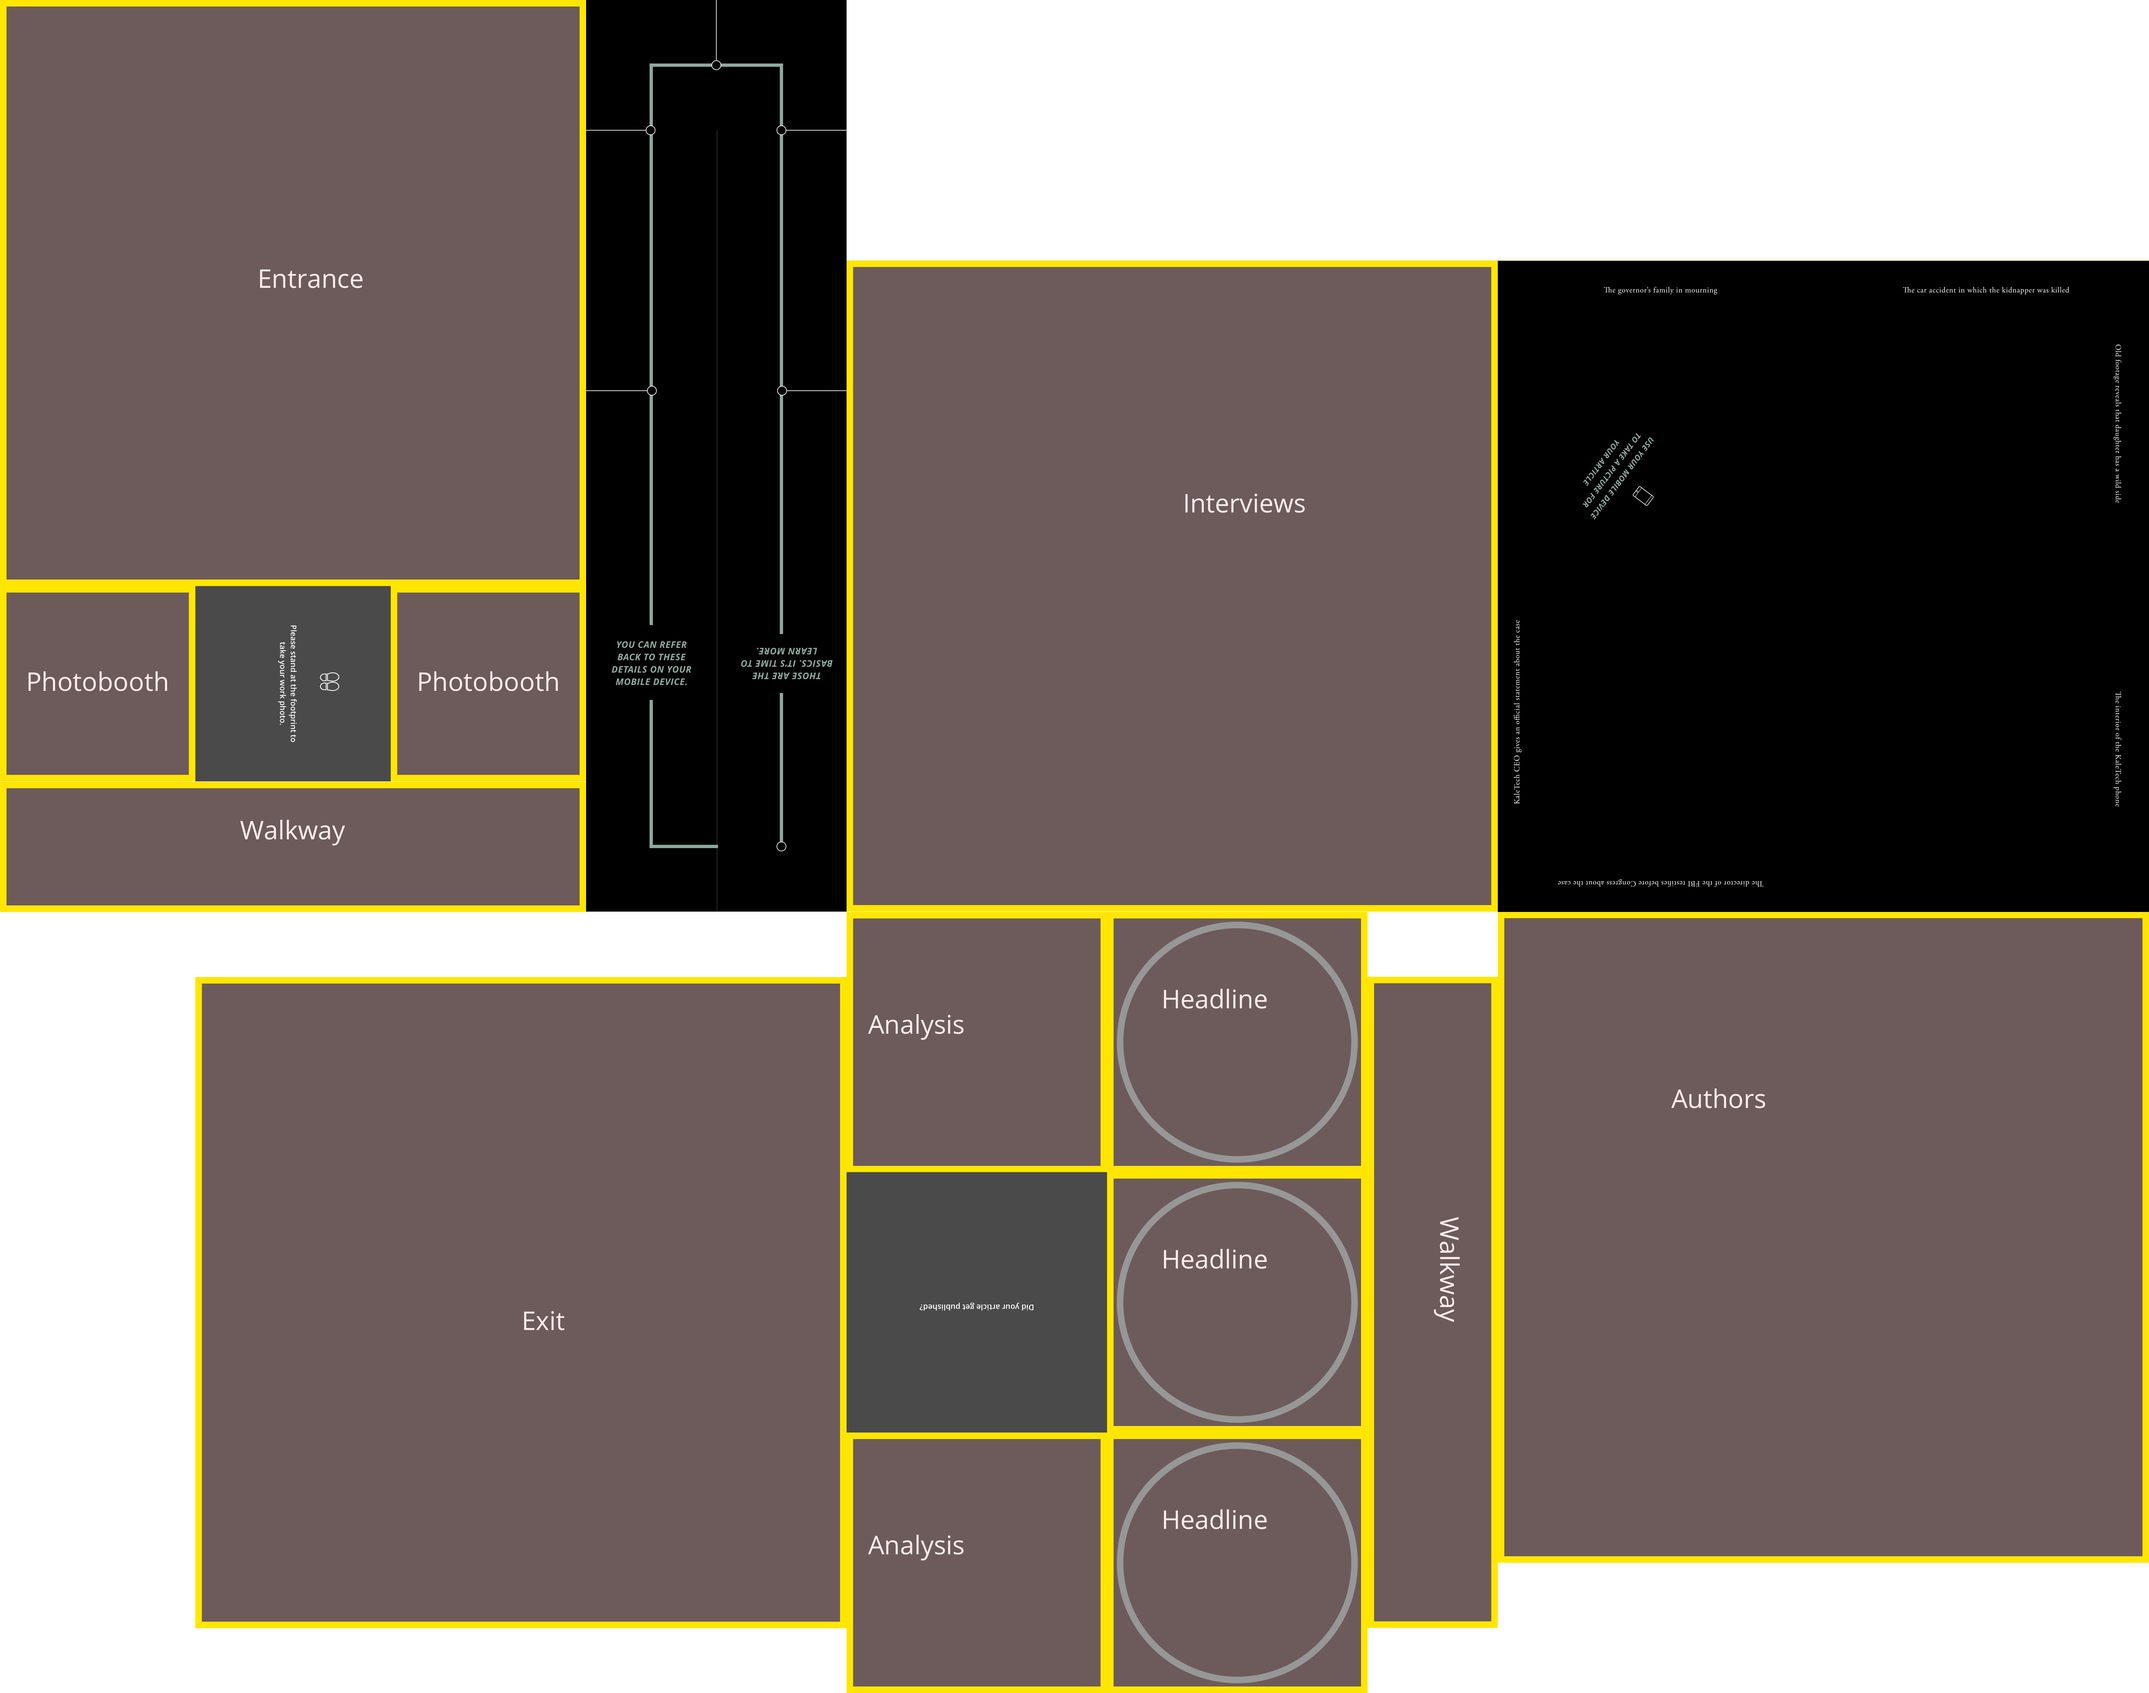
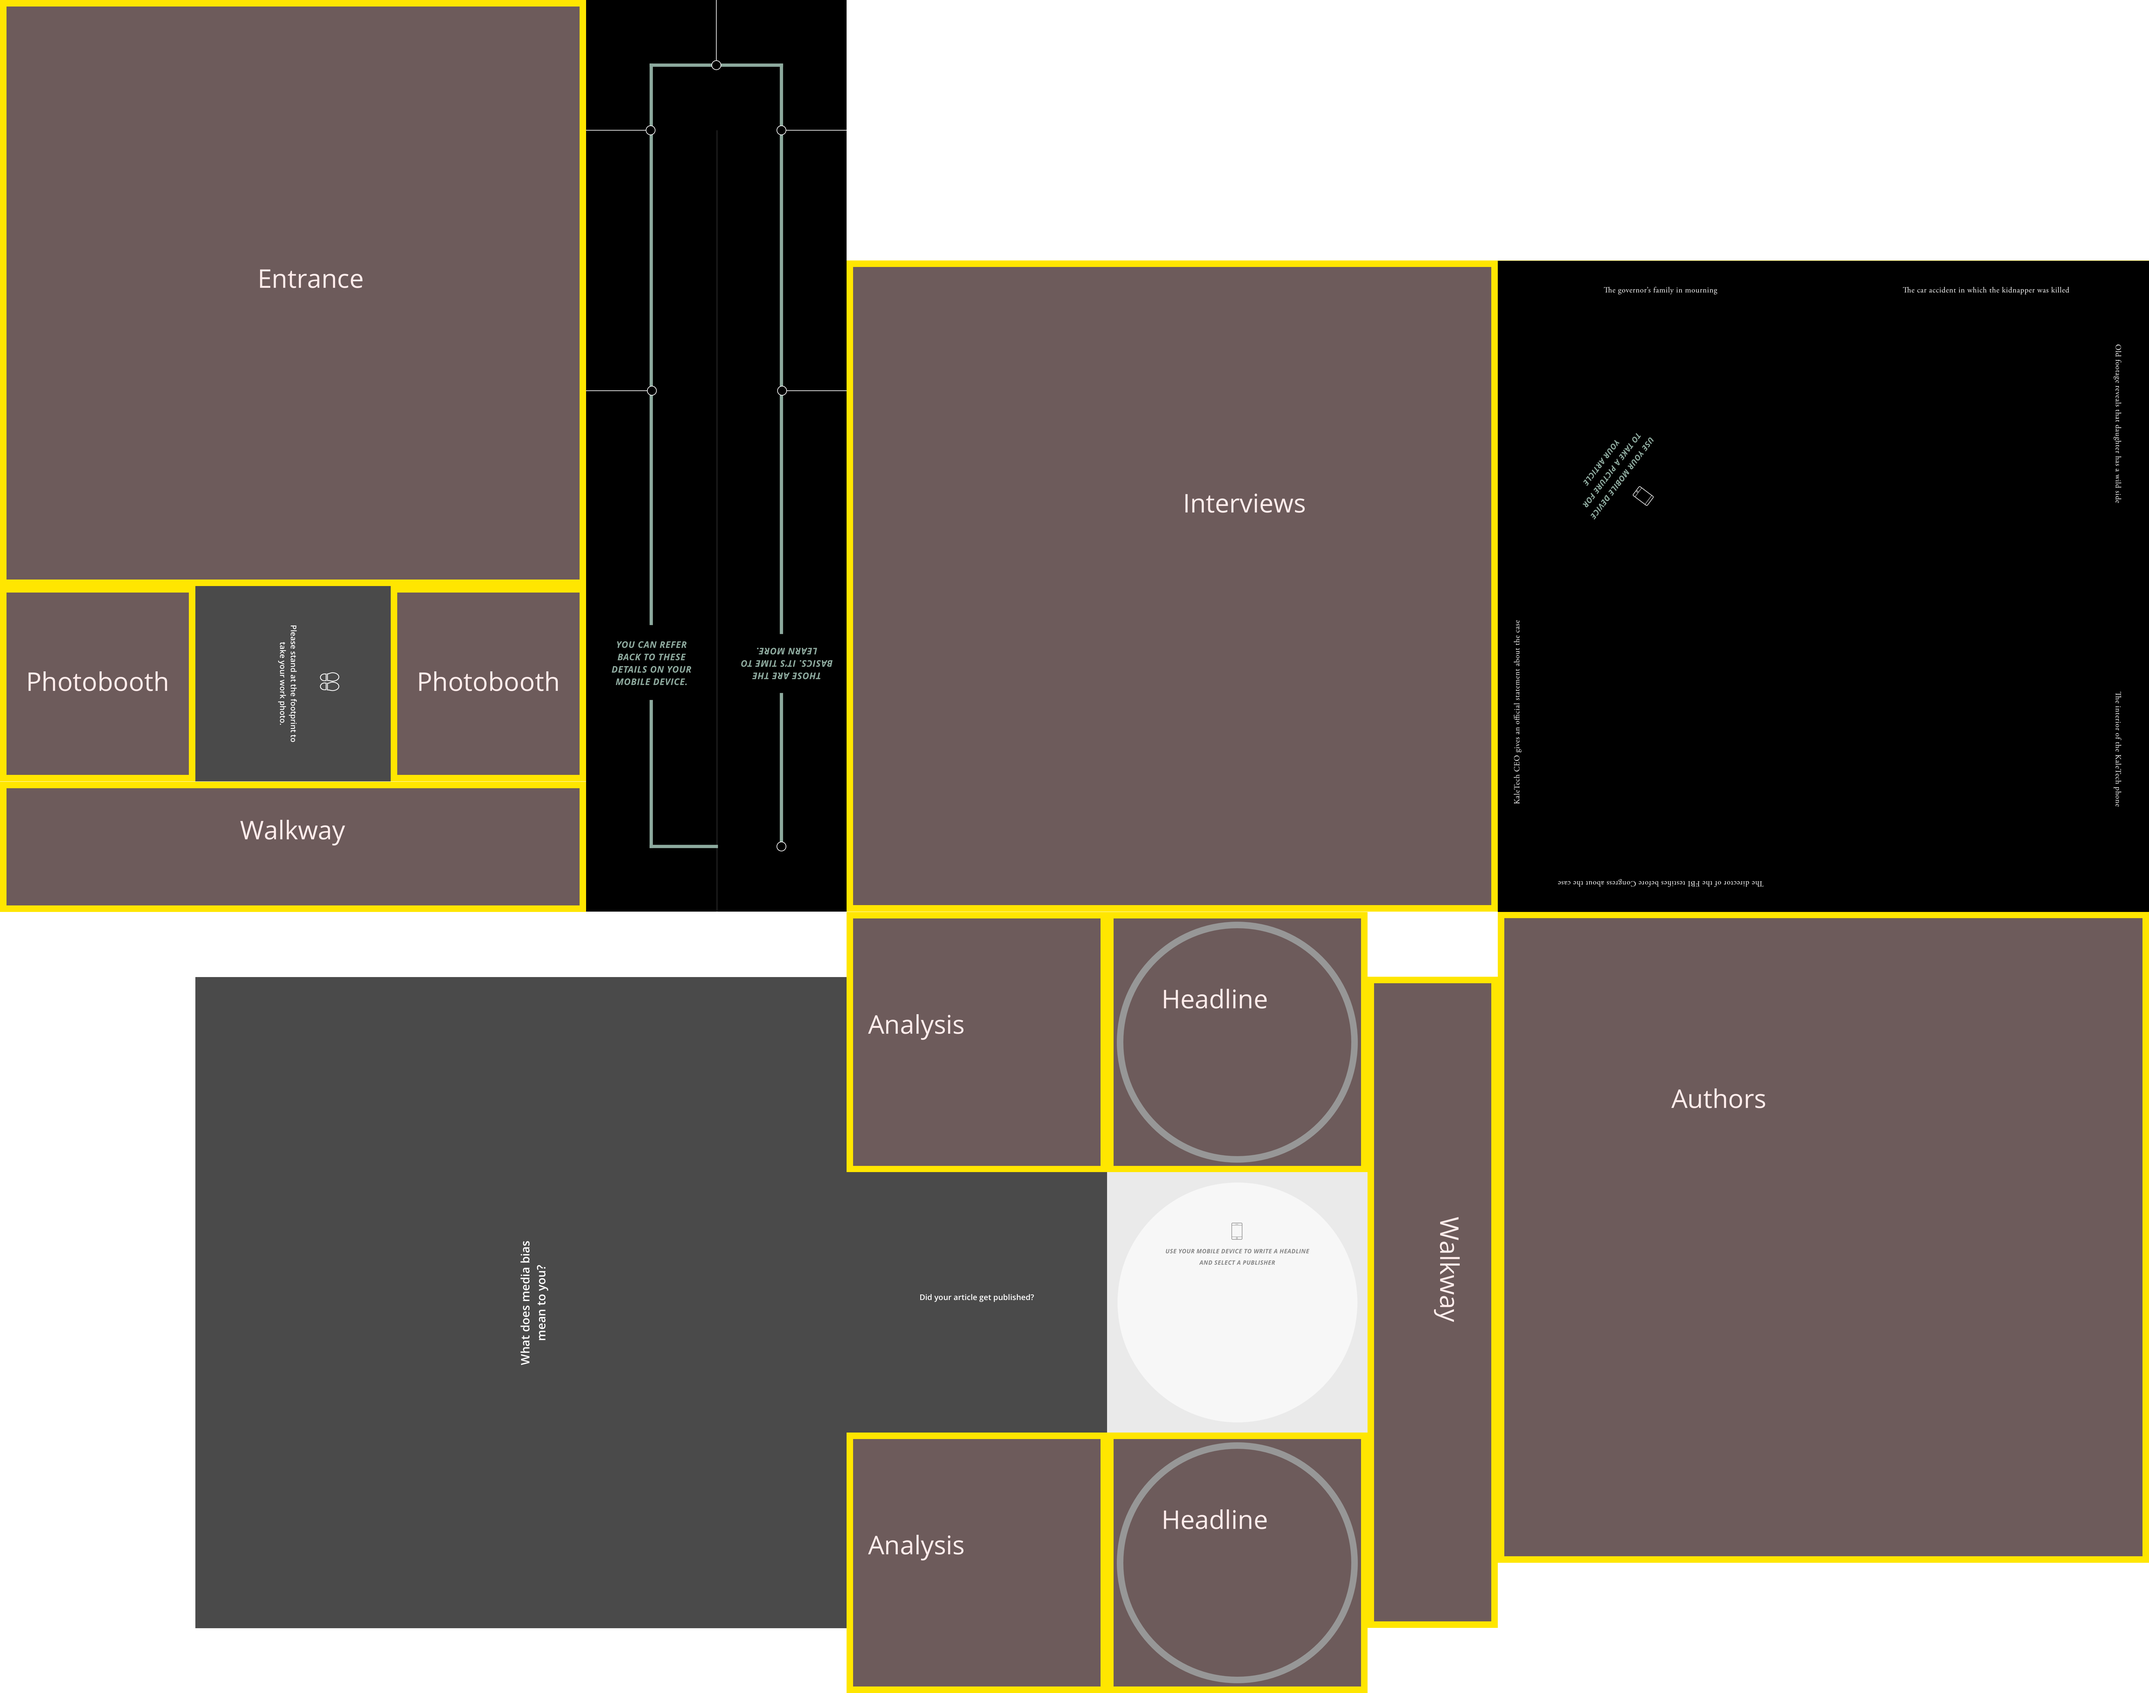
Public analysis room complete

Changed region(s): [[0.0936, 0.5608, 0.4058, 0.9658], [0.4994, 0.6854, 0.6555, 0.8723]]

diff --git a/4--viewpoint.html b/4--viewpoint.html
@@ -58,7 +58,7 @@
       </a-entity>
 
       <!-- Room: Entrance -->
-      <a-entity position="1.5 0 2.5" rotation="0 -90 0" visible="false">
+      <a-entity position="1.5 0 2.5" rotation="0 -90 0" visible="true">
          <!-- Left -->
          <a-plane height="4" width="9" position="-4.5 2 0" rotation="0 90 0" src="assets/4/white.png"></a-plane>
          <!-- Back -->
@@ -185,25 +185,25 @@
       <!-- Room: Analysis -->
       <a-entity position="17 0 -8" rotation="0 180 0" visible="true">
          <!-- Left -->
-         <a-plane height="4" width="4" position="-2 2 0" rotation="0 90 0" src="assets/4/Private%20Analysis_Left%20Wall_Display.jpg"></a-plane>
+         <a-plane height="4" width="4" position="-2 2 0" rotation="0 90 0" src="assets/4/Private%20Analysis_Right%20Wall.jpg"></a-plane>
          <!-- Back -->
          <a-plane height="4" width="4" position="0 2 -2" src="assets/4/Private%20Analysis_Back%20Wall_Exit.jpg"></a-plane>
          <!-- Right -->
-         <a-plane height="4" width="4" position="2 2 0" rotation="0 -90 0" src="assets/4/Private%20Analysis_Right%20Wall.jpg"></a-plane>
+         <a-plane height="4" width="4" position="2 2 0" rotation="0 -90 0"  src="assets/4/Private%20Analysis_Left%20Wall_Display.jpg"></a-plane>
          <!-- Front -->
-         <a-plane height="4" width="4" position="0 2 2" rotation="0 180 0" src="assets/4/Private%20Analysis_Front%20Wall_Entry.jpg"></a-plane>
+         <a-plane height="4" width="4" position="0 2 1.99" rotation="0 180 0" src="assets/4/Private%20Analysis_Front%20Wall_Entry.jpg"></a-plane>
       </a-entity>
 
       <!-- Room: Exit -->
       <a-entity position="17 0 -1" rotation="0 180 0" visible="true">
          <!-- Left -->
-         <!-- <a-plane height="4" width="10" position="-5 2 0" rotation="0 90 0" src="assets/4/white.png"></a-plane> -->
+         <a-plane height="4" width="10" position="-5 2 0" rotation="0 90 0" src="assets/4/Public%20Analysis_Left%20Wall_Display%202.jpg"></a-plane>
          <!-- Back -->
-         <!-- <a-plane height="4" width="10" position="0 2 -5" src="assets/4/white.png"></a-plane> -->
+         <a-plane height="4" width="10" position="0 2 -5" src="assets/4/Public%20Analysis_Back%20Wall_Display%201.jpg"></a-plane>
          <!-- Right -->
-         <a-plane height="4" width="10" position="5 2 0" rotation="0 -90 0" src="assets/4/white.png"></a-plane>
+         <a-plane height="4" width="10" position="5 2 0" rotation="0 -90 0" src="assets/4/Public%20Analysis_Right%20Wall_Exit.jpg"></a-plane>
          <!-- Front -->
-         <!-- <a-plane height="4" width="4" position="-3 2 5" rotation="0 180 0" src="assets/4/white.png"></a-plane> -->
+         <a-plane height="4" width="10" position="0 2 5" rotation="0 180 0" src="assets/4/Public%20Analysis_Front%20Wall_Entry.jpg"></a-plane>
       </a-entity>
 
 
